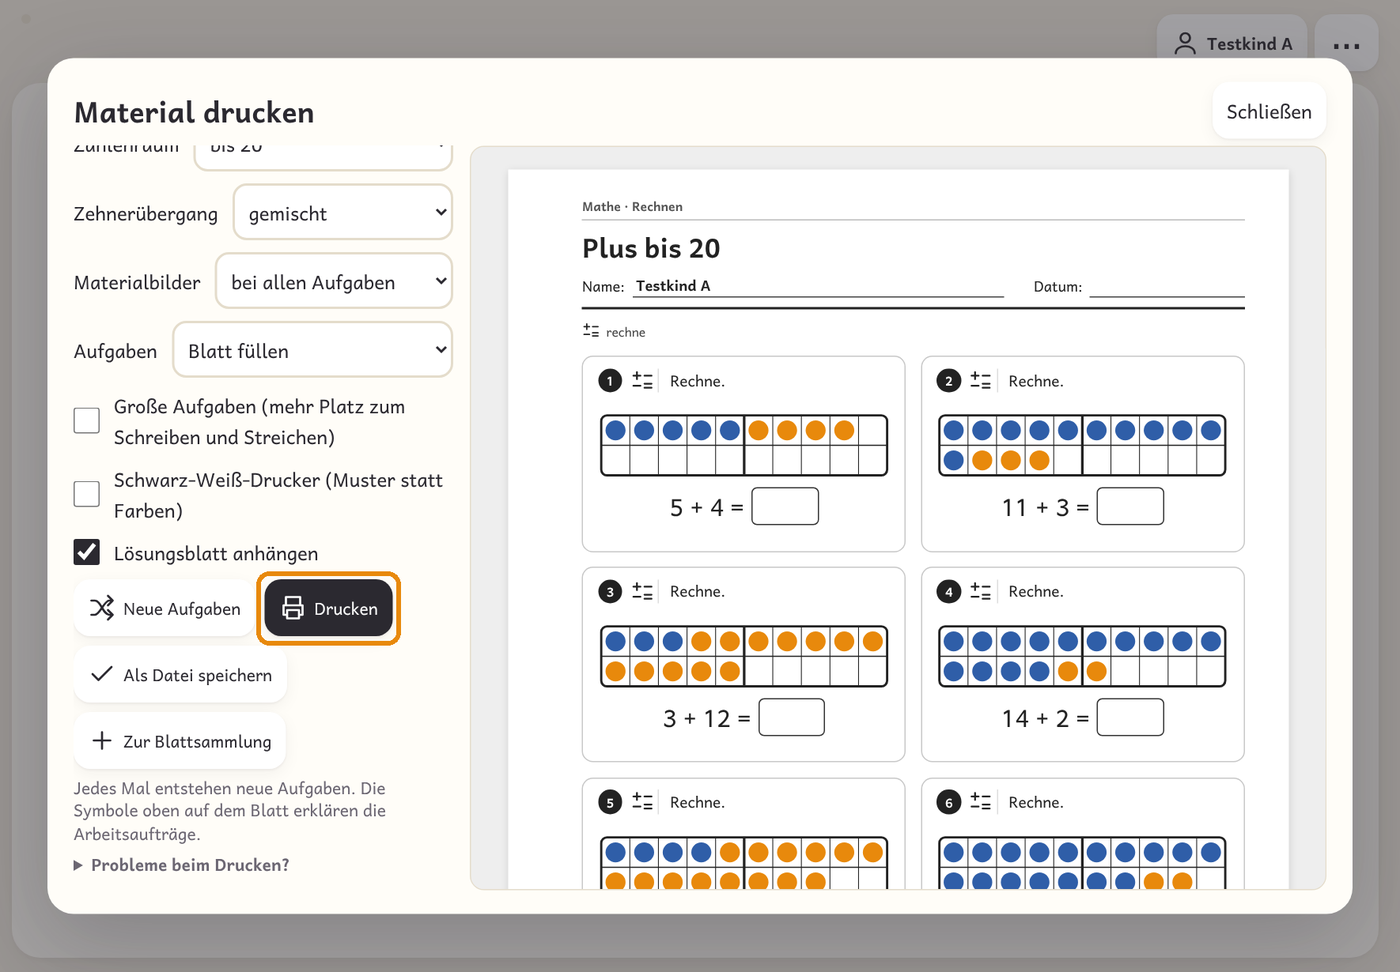
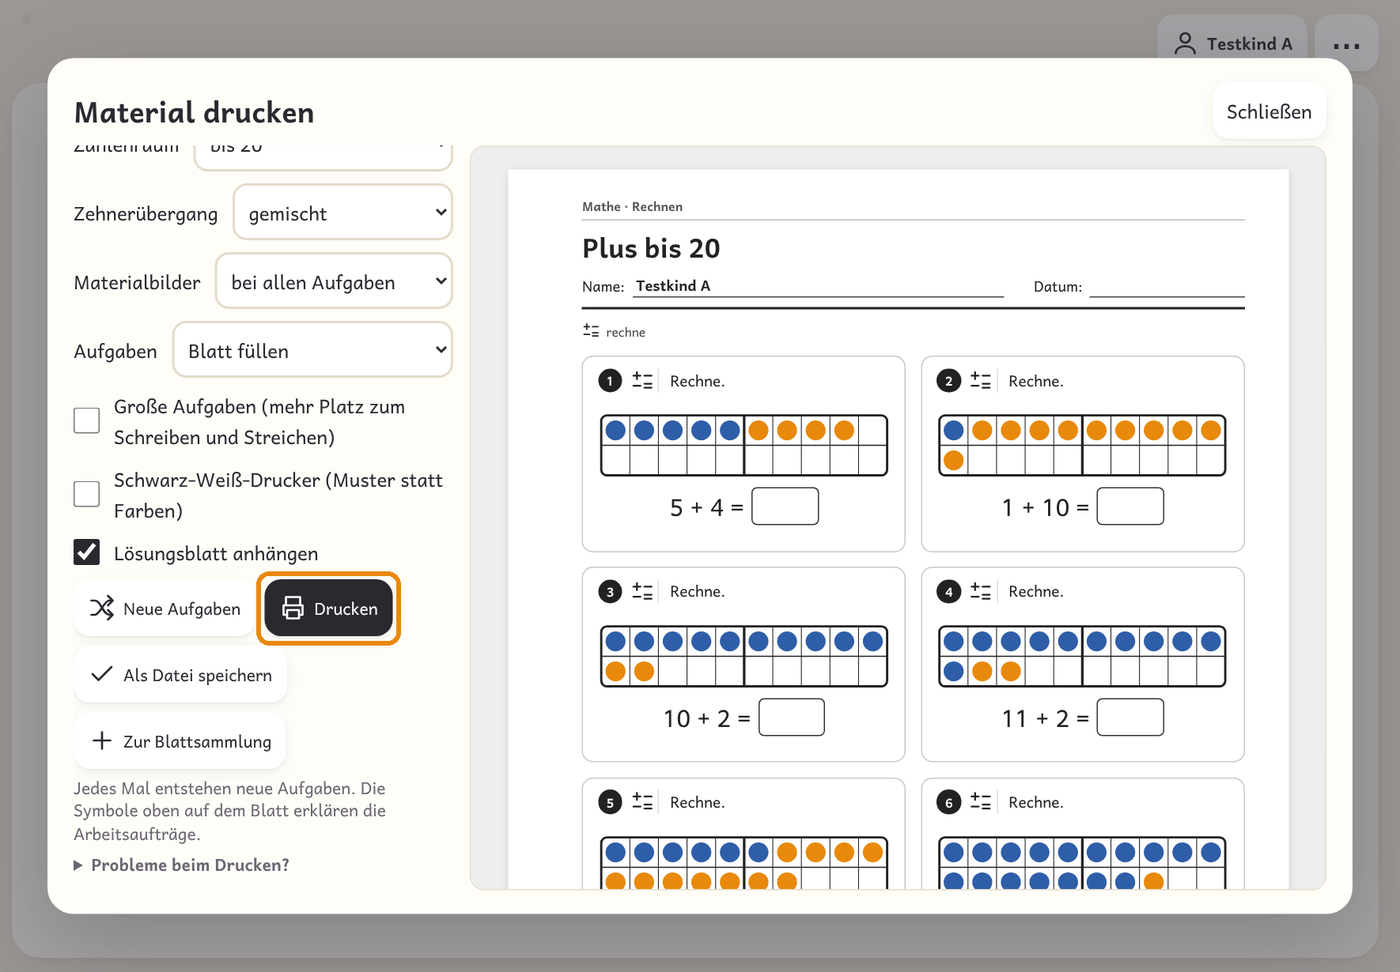
0.43.0: Basis-Arbeitsblätter mit einer Aufgabenart je Blatt (Backlog T) – Auswahl „Aufgabe“, erste Aufgabe ganz vorgemacht, V6 Ordnen mit Bastelseite; Seitenliste im Heft-Assistenten aufklappbar
Freigegeben von Stefan am 28.11.2026 („Super gib alles frei“). Anleitung und Anleitungsbilder aktualisiert, run_all.sh lang 67 × ok.

Claude-Session: https://claude.ai/code/session_01EfzymxKDGusuH8uXT6R52q

diff --git a/index.html b/index.html
@@ -11815,7 +11815,7 @@ document.addEventListener('change', e => { const c = e.target.closest('[data-sub
 document.addEventListener('change', e => { const s = e.target.closest('[data-guide-pid]'); if(!s) return; const p = data.profiles.find(x => x.id === s.dataset.guidePid); if(p){ p.guide = s.value || undefined; saveData(); render(); } });
 
 /* ---------- Rückmeldung (Testphase): Art, Schwere, Text + automatischer Kontext → E-Mail ---------- */
-const APP_VERSION = '0.42.0 · 27.11.2026';
+const APP_VERSION = '0.43.0 · 28.11.2026';
 /* Danke-Seite: Namen nur mit Einverständnis eintragen, z. B. 'Vorname Nachname (Schule)' */
 const THANKS = [];
 const FB_REPO = 'https://github.com/Steffinuss/stufenweise';

diff --git a/docs/anleitung.md b/docs/anleitung.md
@@ -327,7 +327,7 @@ Nach „Prüfen“ wird Falsches rot markiert. Jede Stufe hat ein festes Bildsym
 
 **Eine Aufgabenart nach der anderen:** Innerhalb einer Stufe gibt es mehrere Aufgabenarten, von leicht nach schwer (bei „Gleiches“ zum Beispiel: Gleiches Bild, Gleiches dazulegen, Gleiche Farbe, Farbe dazulegen; bei „Sortieren“: Nach Farbe, Nach Größe, Nach Art, Farbe bei verschiedenen Dingen). Das Kind bleibt bei einer Aufgabenart und wiederholt sie. Am Anfang sind es nur 2 oder 3 Bilder, nach einigen richtigen Aufgaben werden es mehr. Wer dreimal hintereinander danebenliegt, bekommt wieder leichtere Aufgaben. Nach 8 Aufgaben, die beim ersten Versuch richtig waren, erscheint „Nächste Aufgabe“ für die nächste Aufgabenart. Oben in der Leiste kannst du jede Aufgabenart auch direkt wählen.
 
-**Schwerer durch Ähnlichkeit:** Bei Gleiches finden, Was passt nicht? und Sortieren steigt die Schwierigkeit in zwei Richtungen, mit denselben Dingen: mehr Bilder und ähnlichere Dinge. Erst sind die Dinge **deutlich** verschieden (Hammer, Schraube, Mutter – und eine Gabel), dann **ähnlich** (lauter Werkzeuge: Hammer, Schraubenzieher, Schraubenschlüssel – und eine Gabel), zuletzt **fein** (verschiedene Hämmer, Schraubenzieher und Schlüssel – und eine Schraube, die kein Werkzeug ist). Beim Sortieren heißt das: erst Küche und Werkstatt, dann Besteck und Geschirr (oder Werkzeug und Schrauben, Nägel), zuletzt alle Löffel und alle Gabeln. Bei „Nach Größe“ werden die Größenunterschiede kleiner. Diese Aufgabenarten haben sechs Schritte (deutlich, ähnlich, fein – jeweils erst mit wenigen, dann mit mehr Bildern); „Nächste Aufgabe“ erscheint deshalb erst nach 12 richtigen. Auf den Arbeitsblättern zu V1–V3 wählst du die Ähnlichkeit unter **Ähnlichkeit** (deutlich, ähnlich, fein). Im Basis-Test bleibt die leichte Form bei „deutlich“.
+**Schwerer durch Ähnlichkeit:** Bei Gleiches finden, Was passt nicht? und Sortieren steigt die Schwierigkeit in zwei Richtungen, mit denselben Dingen: mehr Bilder und ähnlichere Dinge. Erst sind die Dinge **deutlich** verschieden (Hammer, Schraube, Mutter – und eine Gabel), dann **ähnlich** (lauter Werkzeuge: Hammer, Schraubenzieher, Schraubenschlüssel – und eine Gabel), zuletzt **fein** (verschiedene Hämmer, Schraubenzieher und Schlüssel – und eine Schraube, die kein Werkzeug ist). Beim Sortieren heißt das: erst Küche und Werkstatt, dann Besteck und Geschirr (oder Werkzeug und Schrauben, Nägel), zuletzt alle Löffel und alle Gabeln. Bei „Nach Größe“ werden die Größenunterschiede kleiner. Diese Aufgabenarten haben sechs Schritte (deutlich, ähnlich, fein – jeweils erst mit wenigen, dann mit mehr Bildern); „Nächste Aufgabe“ erscheint deshalb erst nach 12 richtigen. Auf den Arbeitsblättern zu V1–V3 wählst du die Ähnlichkeit unter **Ähnlichkeit** (deutlich, ähnlich, fein); die Auswahl erscheint nur bei Aufgabenarten, die sie nutzen. Im Basis-Test bleibt die leichte Form bei „deutlich“.
 
 **Vormachen:** Bevor ein Kind eine Aufgabenart zum ersten Mal bekommt, macht Stufenweise sie einmal vor. Dann ist die ganze Aufgabe orange umrandet, oben steht groß „Schau zu“ mit einem Auge, und eine Hand zeigt, was angetippt und wohin geschoben wird. Das Kind kann dabei nichts antippen; auch „Jetzt du“ ist erst nach dem Vormachen frei. Mit „Jetzt du“ verschwindet der Rahmen, kurz erscheint grün „Jetzt du“, und das Kind ist dran. „Vormachen“ unten zeigt das Beispiel jederzeit noch einmal. Erkläre den Auftrag dazu mit eigenen Worten.
 
@@ -355,9 +355,13 @@ So läuft eine Stufe ab: Zuerst kommt die **leichte Form**. Stufenweise macht si
 
 **Hinweis im Lernstand:** Ist im Mathe-Test „Zahlen bis 10, Stufe I“ oder im Lese-Test „L1 Schilder und Bilder“ nicht erreicht, schlägt der Lernstand den Basis-Test vor. Der Mathe- und der Lese-Test werden dadurch nicht länger.
 
-**Arbeitsblätter:** Unter Fach „Basis“, Bereiche „Vergleichen“ und „Orientieren“, stehen Blätter für Kinder, die noch nicht sicher zählen: Gleiches finden (V1), Was passt nicht? (V2), Sortieren (V3), Eins zu eins zuordnen (V4), Mehr, weniger, gleich viel (V5), Der Größe nach ordnen (V6), Muster fortsetzen (V7), Formen unterscheiden (O2), Richtung und Spiegelung (O3) und Von links nach rechts (O4). Die Blätter kommen ohne Zahlen und fast ohne Lesen aus: Die Kinder verbinden, kreisen ein, streichen durch und malen weiter. Vor jeder neuen Aufgabenart ist ein Schritt grau gestrichelt vorgemacht: eine Zeile durchgestrichen, eine Linie gezogen oder ein Ding eingekreist. Den Rest macht das Kind.
+**Arbeitsblätter:** Unter Fach „Basis“, Bereiche „Vergleichen“ und „Orientieren“, stehen Blätter für Kinder, die noch nicht sicher zählen: Gleiches finden (V1), Was passt nicht? (V2), Sortieren (V3), Eins zu eins zuordnen (V4), Mehr, weniger, gleich viel (V5), Der Größe nach ordnen (V6), Muster fortsetzen (V7), Formen unterscheiden (O2), Richtung und Spiegelung (O3) und Von links nach rechts (O4). Die Blätter kommen ohne Zahlen und fast ohne Lesen aus: Die Kinder verbinden, kreisen ein, streichen durch, malen weiter oder schneiden aus und kleben auf. Nichts muss zum Lesen angekreuzt werden.
 
-**Erklären statt lesen:** Die erste Aufgabe jeder Art ist grau gestrichelt vorgemacht. Lies den Auftrag vor und zeige ihn an dieser Aufgabe; die nächste Aufgabe derselben Art machen die Kinder selbst. Auf dem Lösungsblatt steht zu jeder Aufgabe, welches Bild gemeint ist (zum Beispiel „2. Bild (Gabel)“).
+**Eine Aufgabenart je Blatt:** Unter **Aufgabe** wählst du die Art, von leicht nach schwer in derselben Reihenfolge wie beim Üben in der App (zum Beispiel bei „Der Größe nach ordnen“: Das größte, Das kleinste, Ordnen). Auf dem ganzen Blatt steht derselbe Auftrag; die Art steht im Titel. Die Wahl merkt sich die App für jedes Blatt. Wer mischen möchte, druckt zwei Blätter. Bei „Formen unterscheiden“, „Richtung und Spiegelung“ und „Sortieren: Nach Art“ gilt auf einem Blatt immer dieselbe Form, Richtung oder Gruppe; sie steht groß oben auf dem Blatt und wechselt von Blatt zu Blatt.
+
+**Ausschneiden und Aufkleben (Ordnen):** Bei „Der Größe nach ordnen: Ordnen“ schneiden die Kinder die Bilder aus und kleben sie auf eine Treppe, das kleinste unten. Die Bilder stehen auf einer eigenen **Bastelseite** hinter dem Blatt: jedes Teil mit eigener gestrichelter Schnittlinie und Schere, die Teile einer Aufgabe in einem Rahmen mit der Aufgabennummer, die Nummer klein auch auf jedem Teil. Die Rückseite der Bastelseite bleibt immer leer, damit beim Ausschneiden nichts verloren geht: Vor und hinter der Bastelseite liegt je eine leere Seite (auch beim beidseitigen Drucken). Teile und Treppenfelder sind gleich groß, auch mit „Große Aufgaben“.
+
+**Erklären statt lesen:** Die erste Aufgabe ist grau gestrichelt ganz vorgemacht (alle Linien, alle Kreise), so sieht man, wie die fertige Aufgabe aussieht. Lies den Auftrag vor und zeige ihn an dieser Aufgabe; die übrigen Aufgaben machen die Kinder selbst. Auf dem Lösungsblatt steht zu jeder Aufgabe, welches Bild gemeint ist (zum Beispiel „2. Bild (Gabel)“).
 
 **Schwarz-Weiß-Drucker:** Mit dem Häkchen „Schwarz-Weiß-Drucker (Muster statt Farben)“ bekommen die Farben Muster (Streifen, Punkte, Karos). So lassen sich auch Farb-Aufgaben schwarz-weiß kopieren; der Auftrag heißt dann „gleiches Muster“ statt „gleiche Farbe“.
 
@@ -398,7 +402,7 @@ Das Heft bleibt auf dem Gerät gespeichert, bis du es leerst. Ältere Hefte, an 
 2. **Umfang:** 12, 24, 36 oder 48 Seiten. Deckblatt und Inhalt zählen mit, das gedruckte Heft hat genau so viele Seiten (durch 4 teilbar, damit es sich falten und heften lässt).
 3. **Wie weit nach vorne:** „nur Förderzone“, „je eine Stufe weiter“ oder „bis das Heft voll ist“. Nach der Förderzone kommen die nächsten Stufen, die das Kind noch nicht erreicht hat (zum Beispiel Rechnen R3 → R4, Zahlenraum 20 → 100).
 
-Darunter steht die Liste der **Kapitel** mit ihren Seiten: jede Stufe ist ein Kapitel, zuerst die Förderzone (sie bekommt die meisten Seiten), dann die nächsten Stufen. Jedes Kapitel beginnt mit einer **Einstiegsseite**: größere Aufgaben, die erste ist als Beispiel mit Lösung markiert. Dann kommen die **Übungsseiten**, die Seite für Seite etwas schwerer werden (in Mathe: erst mit Bild, dann Bild selbst zeichnen oder wegstreichen, dann im Kopf; dazu von kleinen zu großen Zahlen). Am Ende steht **„Das kann ich schon“**: gemischte Aufgaben und unten zum Ankreuzen „Das kann ich.“, „Das kann ich fast.“, „Das übe ich noch.“. Nach je zwei Kapiteln kommt eine **Wiederholung** mit Aufgaben aus beiden Kapiteln. Hinten im Heft stehen je nach Inhalt **Hilfen**: Hundertertafel, Anlauttabelle, Einmaleins-Tafel (Häkchen zum Abwählen). Liegt die Förderzone im Lesen bei „Sätze verstehen“ oder höher (bzw. im Schreiben bei W5/W6), kommt im Deutsch-Heft eine **Fortsetzungsgeschichte** dazu: etwa alle 6–8 Seiten ein Teil, je eine Seite Text und eine Seite Aufgaben. Die Geschichte wählst du unter „Fortsetzungsgeschichte“ (oder „keine“). Ein Kapitel lässt sich abwählen oder mit − und + kürzer oder länger machen; die Seiten werden dann neu verteilt. Mit dem Häkchen **Große Aufgaben (mehr Platz zum Schreiben und Streichen)** bekommen Übungsseiten, „Das kann ich schon“ und Wiederholungen große Aufgaben, also weniger Aufgaben je Seite; die Seitenzahl des Hefts bleibt gleich. Passt eine Aufgabe groß nicht auf die Seite (z. B. lange Texte), ist nur diese Seite normal groß. Die übrigen Einstellungen der Einzelblätter (z. B. Materialbilder, Kleinbuchstaben) gelten im Heft nicht; das Heft nimmt immer die Grundeinstellungen. Mit **Schwarz-Weiß-Drucker** bekommen alle Seiten Muster statt Farben (wie bei den Arbeitsblättern). Sind Blätter zur Hundertertafel dabei, kannst du **Ausgefüllte Hundertertafel als Extraseite zum Nachschauen** ankreuzen; die Tafel kommt dann einmal hinten ins Heft. Auf **Heft erstellen** tippen: Jede Seite bekommt neue Aufgaben. Das **Deckblatt** hat einen Farbrand je Fach (Mathe blau, Deutsch rot, Basis grün, gemischt halb blau, halb rot), einen Titel, den die App aus den Kapiteln bildet (ein selbst eingetragener Titel bleibt), ein kleines Bild zum Fach, das Inhaltsverzeichnis mit den Kapiteln und ihrer ersten Seite und unten „Dieses Heft gehört“. Die **Rückseite** ist eine Seite zum Nachschauen passend zum ersten Kapitel, z. B. Zwanzigerfeld und Zahlenstrahl, Hundertertafel, Anlauttabelle oder Merkwörter. Ihr Farbrand liegt rechts: In der Broschüre läuft er über den Falz, so erkennt man das Fach auch im Regal. Alle Heftseiten sehen gleich aus: oben eine schmale Zeile mit Kapitel und Seitenart (Einstieg, Üben, „Das kann ich schon“ …), unten auf gleicher Höhe die Fußzeile mit Seitenzahl und Kapitel. Die Aufgabenkästen reichen bis zur Fußzeile, so bleibt Platz zum Rechnen, Malen und Schreiben. Ein vorhandenes Heft wird dabei ersetzt; danach kannst du einzelne Übungsseiten austauschen.
+Darunter steht die Liste der **Kapitel** mit ihren Seiten: jede Stufe ist ein Kapitel, zuerst die Förderzone (sie bekommt die meisten Seiten), dann die nächsten Stufen. Jedes Kapitel beginnt mit einer **Einstiegsseite**: größere Aufgaben, die erste ist als Beispiel mit Lösung markiert. Dann kommen die **Übungsseiten**, die Seite für Seite etwas schwerer werden (in Mathe: erst mit Bild, dann Bild selbst zeichnen oder wegstreichen, dann im Kopf; dazu von kleinen zu großen Zahlen). Am Ende steht **„Das kann ich schon“**: gemischte Aufgaben und unten zum Ankreuzen „Das kann ich.“, „Das kann ich fast.“, „Das übe ich noch.“. Nach je zwei Kapiteln kommt eine **Wiederholung** mit Aufgaben aus beiden Kapiteln. Hinten im Heft stehen je nach Inhalt **Hilfen**: Hundertertafel, Anlauttabelle, Einmaleins-Tafel (Häkchen zum Abwählen). Liegt die Förderzone im Lesen bei „Sätze verstehen“ oder höher (bzw. im Schreiben bei W5/W6), kommt im Deutsch-Heft eine **Fortsetzungsgeschichte** dazu: etwa alle 6–8 Seiten ein Teil, je eine Seite Text und eine Seite Aufgaben. Die Geschichte wählst du unter „Fortsetzungsgeschichte“ (oder „keine“). Ein Kapitel lässt sich abwählen oder mit − und + kürzer oder länger machen; die Seiten werden dann neu verteilt. Mit dem Häkchen **Große Aufgaben (mehr Platz zum Schreiben und Streichen)** bekommen Übungsseiten, „Das kann ich schon“ und Wiederholungen große Aufgaben, also weniger Aufgaben je Seite; die Seitenzahl des Hefts bleibt gleich. Passt eine Aufgabe groß nicht auf die Seite (z. B. lange Texte), ist nur diese Seite normal groß. Die übrigen Einstellungen der Einzelblätter (z. B. Materialbilder, Kleinbuchstaben) gelten im Heft nicht; das Heft nimmt immer die Grundeinstellungen. Mit **Schwarz-Weiß-Drucker** bekommen alle Seiten Muster statt Farben (wie bei den Arbeitsblättern). Sind Blätter zur Hundertertafel dabei, kannst du **Ausgefüllte Hundertertafel als Extraseite zum Nachschauen** ankreuzen; die Tafel kommt dann einmal hinten ins Heft. Auf **Heft erstellen** tippen: Jede Seite bekommt neue Aufgaben. Das **Deckblatt** hat einen Farbrand je Fach (Mathe blau, Deutsch rot, Basis grün, gemischt halb blau, halb rot), einen Titel, den die App aus den Kapiteln bildet (ein selbst eingetragener Titel bleibt), ein kleines Bild zum Fach, das Inhaltsverzeichnis mit den Kapiteln und ihrer ersten Seite und unten „Dieses Heft gehört“. Die **Rückseite** ist eine Seite zum Nachschauen passend zum ersten Kapitel, z. B. Zwanzigerfeld und Zahlenstrahl, Hundertertafel, Anlauttabelle oder Merkwörter. Ihr Farbrand liegt rechts: In der Broschüre läuft er über den Falz, so erkennt man das Fach auch im Regal. Alle Heftseiten sehen gleich aus: oben eine schmale Zeile mit Kapitel und Seitenart (Einstieg, Üben, „Das kann ich schon“ …), unten auf gleicher Höhe die Fußzeile mit Seitenzahl und Kapitel. Die Aufgabenkästen reichen bis zur Fußzeile, so bleibt Platz zum Rechnen, Malen und Schreiben. Ein vorhandenes Heft wird dabei ersetzt; danach kannst du einzelne Übungsseiten austauschen. **Basis-Kapitel** haben auf jeder Seite nur eine Aufgabenart: der Einstieg die leichteste, die Übungsseiten der Reihe nach, „Das kann ich schon“ die schwerste geübte Art. Gehört zu einer Seite eine Bastelseite (Ordnen), steht sie direkt dahinter; in den Broschüren immer auf einer rechten Seite mit leerer Rückseite, deshalb kann eine Broschüre ein paar Seiten länger werden.
 
 **Lösungsheft:** Unter dem Heft gibt es **Lösungsheft drucken** und **Lösungsheft speichern**. Das Lösungsheft enthält die Lösungen aller Seiten mit derselben Seitenzahl wie im Heft. Ins Kinderheft kommen keine Lösungen.
 

diff --git a/BACKLOG.md b/BACKLOG.md
@@ -4,7 +4,7 @@ Geplante Entwicklungsaufgaben für Stufenweise. Begonnenes steht in `IN_PROGRESS
 
 Regeln (Stand 17.11.2026): Der Funktionsumfang von `main` ist eingefroren, weil die App an Schulen genutzt wird. Neues entsteht nur im Zweig `entwicklung`, wird in der Testversion gezeigt und erst nach Stefans OK freigegeben (`docs/entwicklung.md`). Didaktische Entscheidungen trifft Stefan.
 
-Stand: 27.11.2026 abends (0.42.0 freigegeben mit U; T gebaut in `entwicklung`, wartet auf Freigabe)
+Stand: 28.11.2026 (0.43.0 freigegeben mit T und aufklappbarer Seitenliste)
 
 ## Vorgeschlagene Reihenfolge
 
@@ -25,7 +25,7 @@ Stand: 27.11.2026 abends (0.42.0 freigegeben mit U; T gebaut in `entwicklung`, w
 | 12 | ~~**M** Blätter im Heft-Design~~, dann ~~**L** Lineatur~~ | klein bis mittel | M freigegeben in 0.40.0 (26.11.); L freigegeben in 0.41.0 (27.11.) |
 | 13 | ~~**S** Rückmeldungen Blätter und Hefte~~ | klein bis mittel | freigegeben in 0.41.0 (27.11.2026) |
 | 14 | ~~**U** Arbeitshefte stringenter (U1–U3)~~ | mittel | freigegeben in 0.42.0 (27.11.2026) |
-| 15 | **T** Basis-Arbeitsblätter überarbeiten | mittel | gebaut in `entwicklung` (27.11. abends, nach Stefans OK), in der Testversion; wartet auf Freigabe |
+| 15 | **T** Basis-Arbeitsblätter überarbeiten | mittel | **erledigt** in 0.43.0 (28.11.2026) |
 
 Alternative: B zuerst als schneller Gewinn, während Stefan den Basis-Test ausprobiert.
 
@@ -400,7 +400,7 @@ Nebenbei gefunden (26.11., Testlauf): Im Lese-Test L8 „Stundenplan“ steht im
 
 ## T: Basis-Arbeitsblätter didaktisch überarbeiten (Stefan, 26.11.2026)
 
-**Status:** Konzept mit Bildern und 7 Fragen (27.11.2026, Claude-Doc „Konzept: Basis-Arbeitsblätter überarbeiten (Backlog T)“, https://claude.ai/artifact/MUbTKabSxyXh9fofA3No2U); **Stefan hat am 27.11. abends alle Fragen beantwortet** (Tabelle „Stefans Entscheidungen“ im Doc und unten) und danach „Ja, so bauen“ gesagt. **Gebaut in `entwicklung`** (siehe `CHANGELOG.md`, „Unveröffentlicht“), wartet auf Freigabe.
+**Status:** Konzept mit Bildern und 7 Fragen (27.11.2026, Claude-Doc „Konzept: Basis-Arbeitsblätter überarbeiten (Backlog T)“, https://claude.ai/artifact/MUbTKabSxyXh9fofA3No2U); **Stefan hat am 27.11. abends alle Fragen beantwortet** (Tabelle „Stefans Entscheidungen“ im Doc und unten) und danach „Ja, so bauen“ gesagt. **Erledigt in 0.43.0** (freigegeben 28.11.2026; Bastelseite nach Rückmeldung mit Schere und Umriss je Teil).
 
 **Entscheidungen (Stefan, 27.11.2026, per Auswahl im Chat):**
 1. Eine Art je Blatt für alle zehn Blätter: Auswahl „Aufgabe“ im Blatt-Dialog, leichteste vorausgewählt, keine Mischung.

diff --git a/CHANGELOG.md b/CHANGELOG.md
@@ -5,6 +5,10 @@ Versionen: Hauptversion.Nebenversion.Korrektur (Korrektur = Fehlerbehebung, Nebe
 
 ## Unveröffentlicht (Zweig `entwicklung`, Testversion)
 
+## 0.43.0 – 28.11.2026
+
+Freigegeben von Stefan am 28.11.2026 nach Durchsicht der Testversion („Super gib alles frei“): Basis-Arbeitsblätter mit einer Aufgabenart je Blatt (Backlog T) und aufklappbare Seitenliste im Heft-Assistenten. Anleitung ergänzt (Basis-Blätter: Aufgabe, Bastelseite; Basis im Arbeitsheft), Anleitungsbilder neu aufgenommen.
+
 - **Seitenliste im Heft-Assistenten ausblendbar** (Stefan 27.11.2026, 17:54: „Detailauswahl im Heftassistenten ausblendbar machen und standardmäßig ausgeblendet“; danach „Ja, so bauen“): Die Liste der Kapitel und Seiten mit „Austauschen“ steht jetzt in der aufklappbaren Zeile „Seiten im Heft (n) – zum Austauschen aufklappen“ (`details.hf-pages`), anfangs zu. Auf/zu gilt, solange der Dialog offen ist (`app.heftListOpen`, z. B. nach einem Austausch); beim nächsten Öffnen (`openSheets`, `openHeftZone`) ist sie wieder zu. Test: `heft_stringent.py`.
 - **Basis-Arbeitsblätter: eine Aufgabenart je Blatt** (Backlog T, Stefan 27.11.2026, alle Entscheidungen per Auswahl, danach „Ja, so bauen“; Konzept im Claude-Doc „Konzept: Basis-Arbeitsblätter überarbeiten (Backlog T)“):
   - Neue Auswahl **„Aufgabe“** im Blatt-Dialog bei allen zehn Basis-Blättern, Arten von leicht nach schwer wie in der App (V1 einkreisen vor verbinden, V3 erst Farbe bei gleichen Dingen). Je Blatt gemerkt (`app.sheet.bart`, in `SHEET_KEEP`). Keine Mischung mehr: auf dem ganzen Blatt ein Auftragssatz. Die Art steht im Titel („Der Größe nach ordnen: Das größte“). „Ähnlichkeit“ erscheint nur bei Arten, die sie nutzen.

diff --git a/IN_PROGRESS.md b/IN_PROGRESS.md
@@ -3,6 +3,6 @@
 Was gerade begonnen ist. Erledigtes wandert nach `CHANGELOG.md`, Geplantes steht in `BACKLOG.md`.
 Arbeitsweise mit zwei Zweigen: `docs/entwicklung.md`.
 
-Stand: 27.11.2026 (0.42.0 freigegeben: U Arbeitshefte stringenter, Broschüre ohne Schriftvergrößerung)
+Stand: 28.11.2026 (0.43.0 freigegeben: T Basis-Arbeitsblätter mit einer Aufgabenart je Blatt, Seitenliste im Heft-Assistenten aufklappbar)
 
-**T** Basis-Arbeitsblätter: eine Aufgabenart je Blatt (Stefans OK 27.11. abends „Ja, so bauen“). Gebaut in `entwicklung`, in der Testversion zum Ansehen; Einzelheiten in `CHANGELOG.md` unter „Unveröffentlicht“, Entscheidungen in `BACKLOG.md`. Wartet auf Stefans Durchsicht und Freigabe.
+Nichts in Arbeit.
